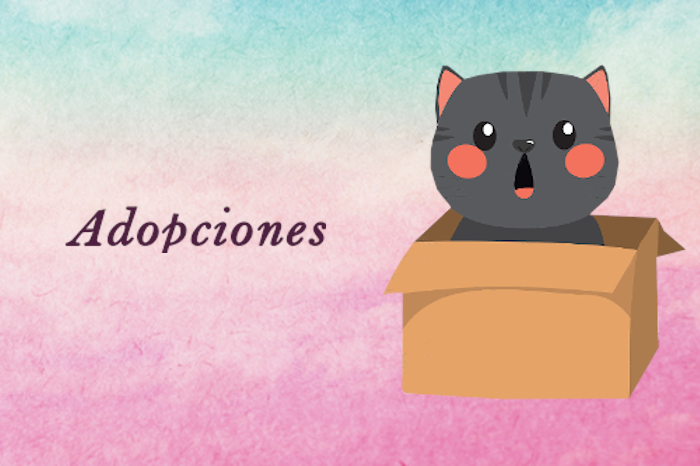
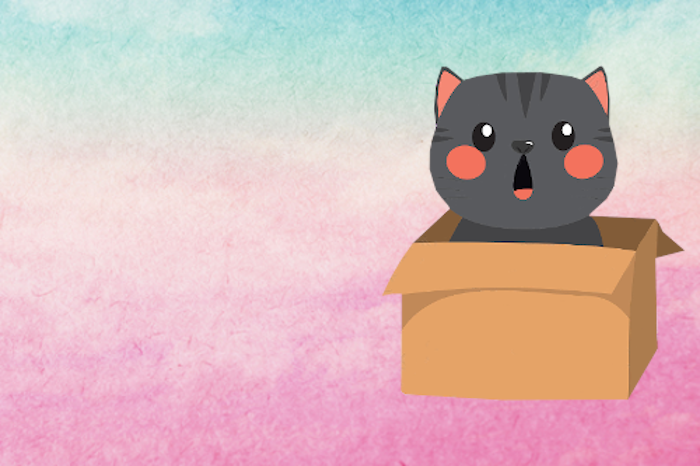
home images design

diff --git a/src/components/Home/HomeImage.js b/src/components/Home/HomeImage.js
@@ -1,0 +1,129 @@
+import React from 'react';
+import { makeStyles } from '@material-ui/core/styles';
+import ButtonBase from '@material-ui/core/ButtonBase';
+import Typography from '@material-ui/core/Typography';
+import { RoundedCorner } from '@material-ui/icons';
+
+const useStyles = makeStyles((theme) => ({
+  root: {
+    display: 'flex',
+    flexWrap: 'wrap',
+    minWidth: 300,
+    width: '100%',
+  },
+  image: {
+    position: 'relative',
+    height: 400,
+    [theme.breakpoints.down('xs')]: {
+      width: '100% !important', // Overrides inline-style
+      height: '100%',
+    },
+    '&:hover, &$focusVisible': {
+      zIndex: 1,
+      '& $imageBackdrop': {
+        opacity: 0.15,
+      },
+      '& $imageMarked': {
+        opacity: 0,
+      },
+      '& $imageTitle': {
+        border: '4px solid currentColor',
+      },
+    },
+  },
+  focusVisible: {},
+  imageButton: {
+    position: 'absolute',
+    left: 0,
+    right: 0,
+    top: 0,
+    bottom: 0,
+    display: 'flex',
+    alignItems: 'center',
+    justifyContent: 'center',
+    color: theme.palette.common.white,
+  },
+  imageSrc: {
+    position: 'absolute',
+    left: 0,
+    right: 0,
+    top: 0,
+    bottom: 0,
+    backgroundSize: 'cover',
+    backgroundPosition: 'center 40%',
+    borderRadius: 50,
+  },
+  imageBackdrop: {
+    position: 'absolute',
+    left: 0,
+    right: 0,
+    top: 0,
+    bottom: 0,
+    backgroundColor: theme.palette.common.black,
+    opacity: 0.25,
+    transition: theme.transitions.create('opacity'),
+    borderRadius: 50,
+  },
+  imageTitle: {
+    position: 'relative',
+    fontSize: 20,
+    padding: `${theme.spacing(2)}px ${theme.spacing(4)}px ${theme.spacing(1) + 6}px`,
+  },
+  imageMarked: {
+    height: 3,
+    width: 18,
+    backgroundColor: theme.palette.common.white,
+    position: 'absolute',
+    bottom: -2,
+    left: 'calc(50% - 9px)',
+    transition: theme.transitions.create('opacity'),
+  },
+}));
+
+export default function HomeImages(props) {
+  const classes = useStyles();
+
+  const images = [
+    {
+      url: props.image,
+      title: props.name,
+      width: '100%',
+    }
+  ];
+
+  return (
+    <div className={classes.root}>
+      {images.map((image) => (
+        <ButtonBase
+          focusRipple
+          key={image.title}
+          className={classes.image}
+          focusVisibleClassName={classes.focusVisible}
+          style={{
+            width: image.width
+          }}
+        >
+          <span
+            className={classes.imageSrc}
+            style={{
+              backgroundImage: `url(${image.url})`,
+            }}
+          />
+          <span className={classes.imageBackdrop} />
+          <span className={classes.imageButton}>
+            <Typography
+              component="span"
+              variant="subtitle1"
+              color="inherit"
+              className={classes.imageTitle}
+              style={{marginLeft: props.textPosition === "right" ? '45%' : '-45%'}, {marginRight: props.textPosition === "left" ? '45%' : '-45%'}}
+            >
+              {image.title}
+              <span className={classes.imageMarked} />
+            </Typography>
+          </span>
+        </ButtonBase>
+      ))}
+    </div>
+  );
+}

diff --git a/src/components/Home/Home.js b/src/components/Home/Home.js
@@ -3,6 +3,7 @@ import './Home.css';
 import { Container, Row, Col, Image, Carousel } from 'react-bootstrap';
 import AdoptionsImage from './../../assets/images/AdoptionsImage.png';
 import FoundAndLostImage from './../../assets/images/FoundAndLostImage.png';
+import HomeImages from './HomeImage';
 
 
 class Home extends React.Component {
@@ -57,10 +58,10 @@ class Home extends React.Component {
                 </Col>
                 <Col>
                     <Row style={{marginBottom:'4%'}}>
-                        <Image fluid src={FoundAndLostImage} rounded />
+                        <HomeImages image={FoundAndLostImage} name="Perdidos y Encontrados" textPosition="right" />
                     </Row>
                     <Row>
-                        <Image fluid src={AdoptionsImage} rounded />
+                        <HomeImages image={AdoptionsImage} name="Adopciones" textPosition="left"/>
                     </Row>
                 </Col>
                 <Col>
